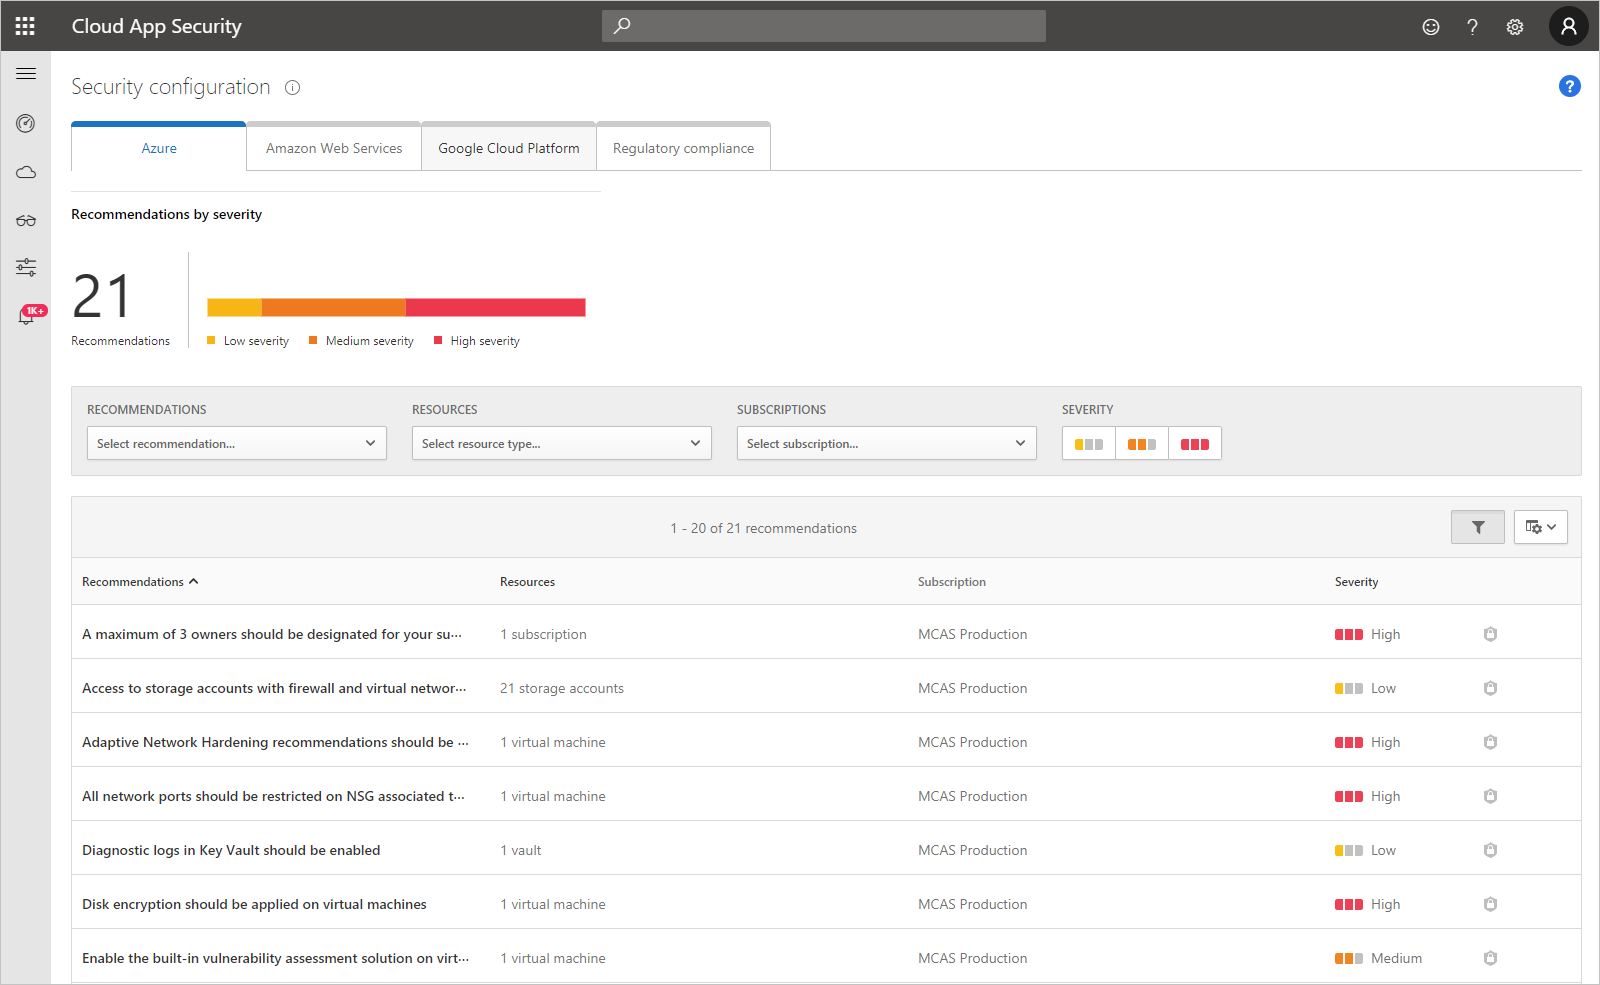
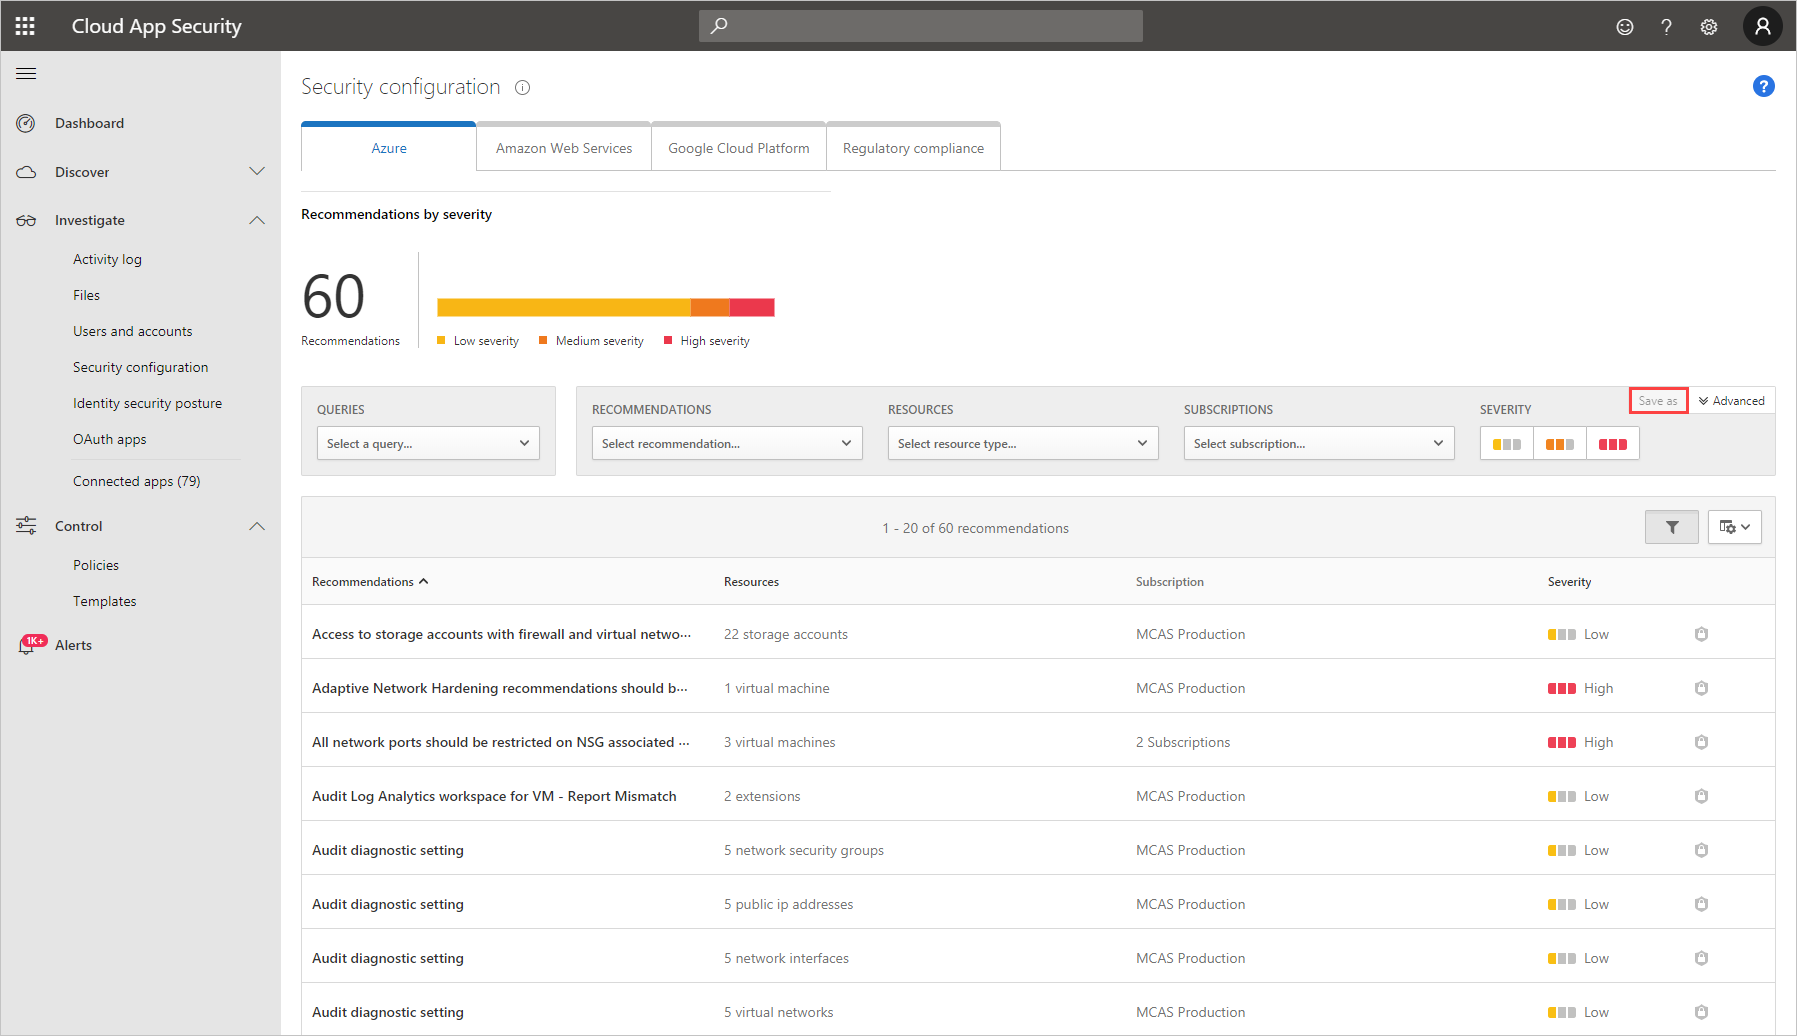
Update with new items

diff --git a/CloudAppSecurityDocs/release-notes.md b/CloudAppSecurityDocs/release-notes.md
@@ -34,11 +34,20 @@ Released July 26, 2020
 - **New anomaly detection: Suspicious OAuth app file download activities**  
 We've extended our anomaly detections to include suspicious download activities by an OAuth app. The new detection is now available out-of-the-box and automatically enabled to alert you when an OAuth app downloads multiple files from Microsoft SharePoint or Microsoft OneDrive in a manner that is unusual for the user.
 
-Performance improvements via proxy caching for Session Controls (gradual rollout)
-
 - **Performance improvements using proxy caching for Session Controls (gradual rollout)**  
-We've made additional performance improvements to our session controls, by improving our content caching mechanisms. The improved service is even more streamlined and provides increased responsiveness when using session controls. Note that session controls do not cache private content, aligning with the appropriate standards to only cache shared (public) content. For more information, see
-[How session control works](proxy-intro-aad.md#how-session-control-works).
+We've made additional performance improvements to our session controls, by improving our content caching mechanisms. The improved service is even more streamlined and provides increased responsiveness when using session controls. Note that session controls do not cache private content, aligning with the appropriate standards to only cache shared (public) content. For more information, see [How session control works](proxy-intro-aad.md#how-session-control-works).
+
+- **New feature: Save security configuration queries**  
+We've added the ability to save queries for our security configuration dashboard filters for Azure, Amazon Web Services (AWS), and Google Cloud Platform (GCP). This can help make future investigations even simpler by reusing common queries. Learn more about [Security configuration recommendations](security-config.md).
+
+- **Enhanced anomaly detection alerts**  
+We've extended the information we provide for anomaly detection alerts to include a mapping to the corresponding MITRE ATT\&CK tactic. This mapping will help you understand the phase and impact of the attack and assist with your investigations. Learn more about [How to investigate anomaly detection alerts](investigate-anomaly-alerts.md).
+
+- **Enhanced detection logic: Ransomware activity**  
+We've updated the detection logic for Ransomware activity to provide improved accuracy and reduced alert volume. For more information about this anomaly detection policy, see [Ransomware activity](anomaly-detection-policy.md#ransomware-activity).
+
+- **Identity Security Posture reports: Tags visibility**  
+We've added entity tags to Identity Security Posture reports providing additional insights about entities. For example, the **Sensitive** tag can help you identify risky users and prioritize your investigations. Learn more about [Investigating risky users](tutorial-ueba.md).
 
 ## Cloud App Security release 178
 
@@ -64,19 +73,6 @@ Cloud App Security provides the ability to identify risky machines as part of yo
 
 - **New feature: Self-service disable app connector (gradual rollout)**  
 We've added the ability to disable app connectors directly in Cloud App Security. For more information, see [Disable app connectors](enable-instant-visibility-protection-and-governance-actions-for-your-apps.md#disable-app-connectors).
-
-<!--
-- **Enhanced detection logic: Ransomware activity (gradual rollout)**  
-We've updated the detection logic for Ransomware activity to provide improved accuracy and reduced alert volume. For more information about this anomaly detection policy, see [Ransomware activity](anomaly-detection-policy.md#ransomware-activity).
-
-- **New OAuth app policy templates**  
-Cloud App Security now provides the following new OAuth app policy templates enabling you to detect potentially malicious apps:
-
-  - **OAuth apps authorized by external users**: Alert when an app was authorized by an external user.
-  - **OAuth apps with high permissions and rare community use – Google**: Alert for apps with high permissions and rare community use in Google.
-  - **OAuth apps with high permissions and rare community use – Office**: Alert for apps with high permissions and rare community use in Office
-  - **OAuth apps with rare community use - Salesforce**: Alert for apps with rare community use in Salesforce.
--->
 
 ## Cloud App Security release 177
 
@@ -120,7 +116,7 @@ We've made significant network performance improvements to our proxy service. Th
 We've expanded our current capability to detect risky behavior. The new detection is now available out-of-the-box and automatically enabled to alert you when an unusual failed login attempt is identified. Unusual failed login attempts may be an indication of a potential *password-spray* brute force attack (also known as the *low and slow* method). This detection impacts the overall [investigation priority score](tutorial-ueba.md) of the user.
 
 - **Enhanced table experience**  
-We've added the ability to resize table column widths, so that you can widen or narrow columns to customize and improve the way you view tables. You also have the option to restore the original layout by selecting the table settings menu and choosing **Default width**.
+We've added the ability to resize table column widths so that you can widen or narrow columns to customize and improve the way you view tables. You also have the option to restore the original layout by selecting the table settings menu and choosing **Default width**.
 
 ## Cloud App Security release 175
 

diff --git a/CloudAppSecurityDocs/security-config-gcp.md b/CloudAppSecurityDocs/security-config-gcp.md
@@ -49,6 +49,11 @@ This assessment provides an organizational view of security configuration recomm
 
 1. You can filter the recommendations by type, by resource, and by subscription. Additionally, you can click on the security configuration icon ![ASC icon](media/asc-icon.png) to open the recommendation in GCP Security Command Center for more information and to deep dive into the recommendation.
 
+    > [!NOTE]
+    > To make investigation even simpler, you can create custom queries and save them for later use. After you've finished building your query, click the **Save as** button in the top right corner of the filters.
+
+In the Save query pop-up, name your query.
+
     ![security configuration](media/security-configuration-gcp.png)
 
 1. Select a recommendation to view additional information about the recommendation including a description and detailed remediation guidelines.

diff --git a/CloudAppSecurityDocs/security-config-aws.md b/CloudAppSecurityDocs/security-config-aws.md
@@ -49,6 +49,9 @@ Microsoft Cloud App Security provides you with a security configuration assessme
 
 1. You can filter the recommendations by type, by resource, and by accounts. Additionally, you can click on the security configuration icon ![ASC icon](media/asc-icon.png) to open the recommendation in Amazon Security Hub for more information and to deep dive into the recommendation.
 
+    > [!NOTE]
+    > To make investigation even simpler, you can create custom queries and save them for later use. After you've finished building your query, click the **Save as** button in the top right corner of the filters.
+
     ![security configuration](media/security-configuration-aws.png)
 
 ## Next steps

diff --git a/CloudAppSecurityDocs/security-config-azure.md b/CloudAppSecurityDocs/security-config-azure.md
@@ -64,6 +64,9 @@ To enable security configuration recommendations in Microsoft Cloud App Security
 
 For information about how to implement security recommendations, see [Managing security recommendations in Azure Security Center](https://docs.microsoft.com/azure/security-center/security-center-recommendations).
 
+    > [!NOTE]
+    > To make investigation even simpler, you can create custom queries and save them for later use. After you've finished building your query, click the **Save as** button in the top right corner of the filters.
+
 ![security configuration](media/security-configuration-azure.png)
 
 ## Next steps
